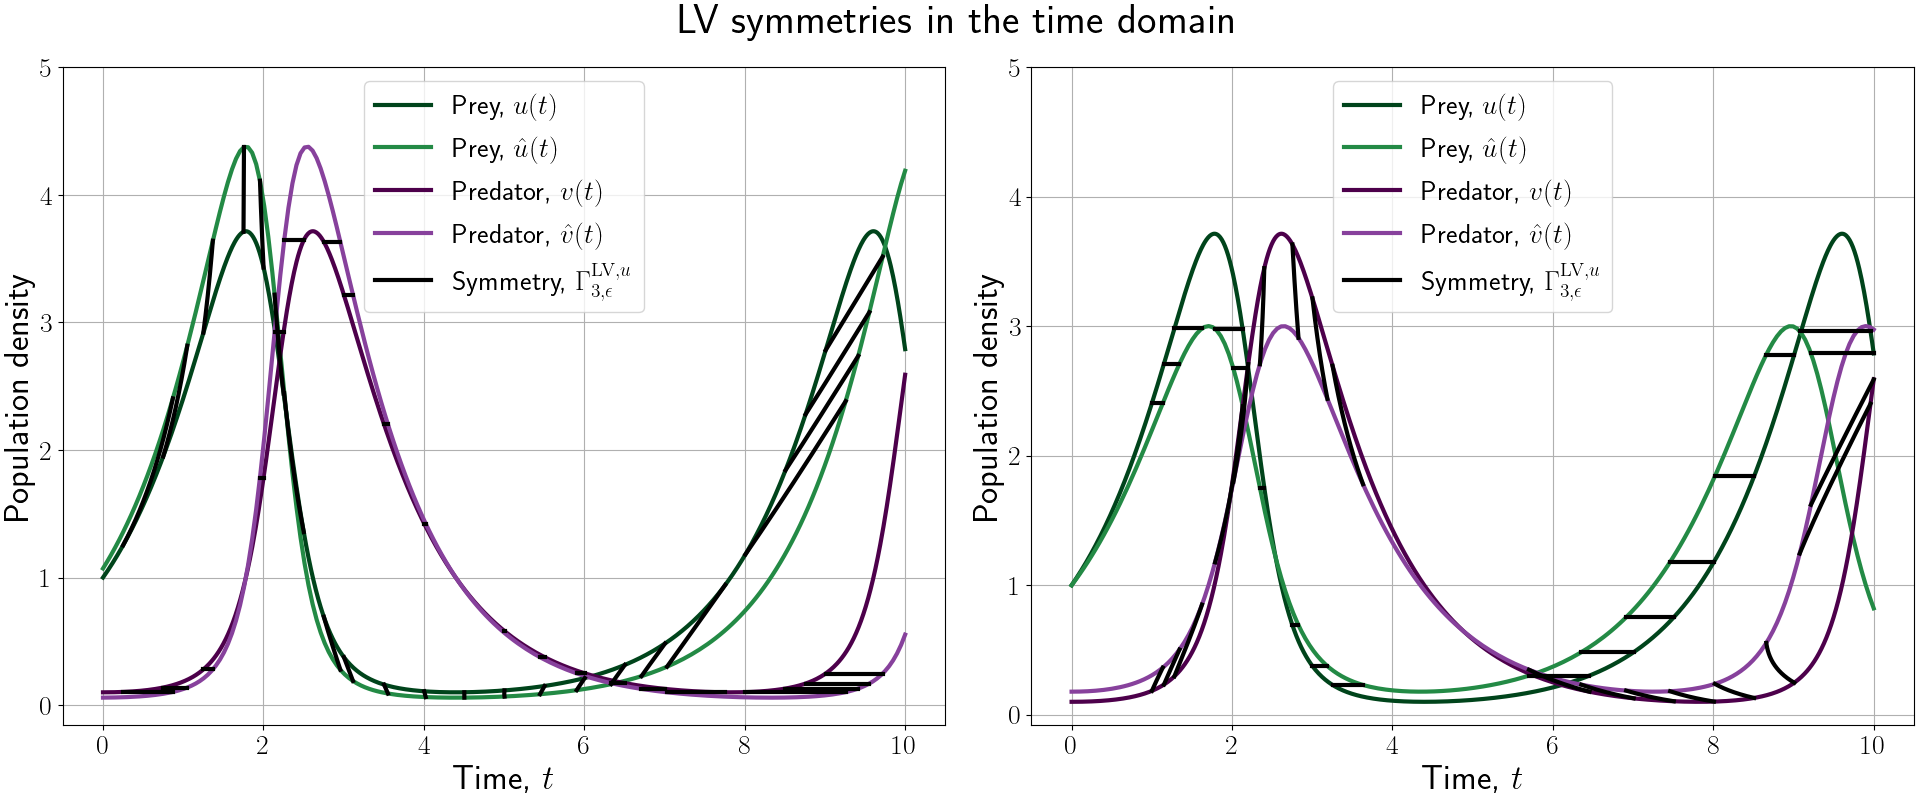
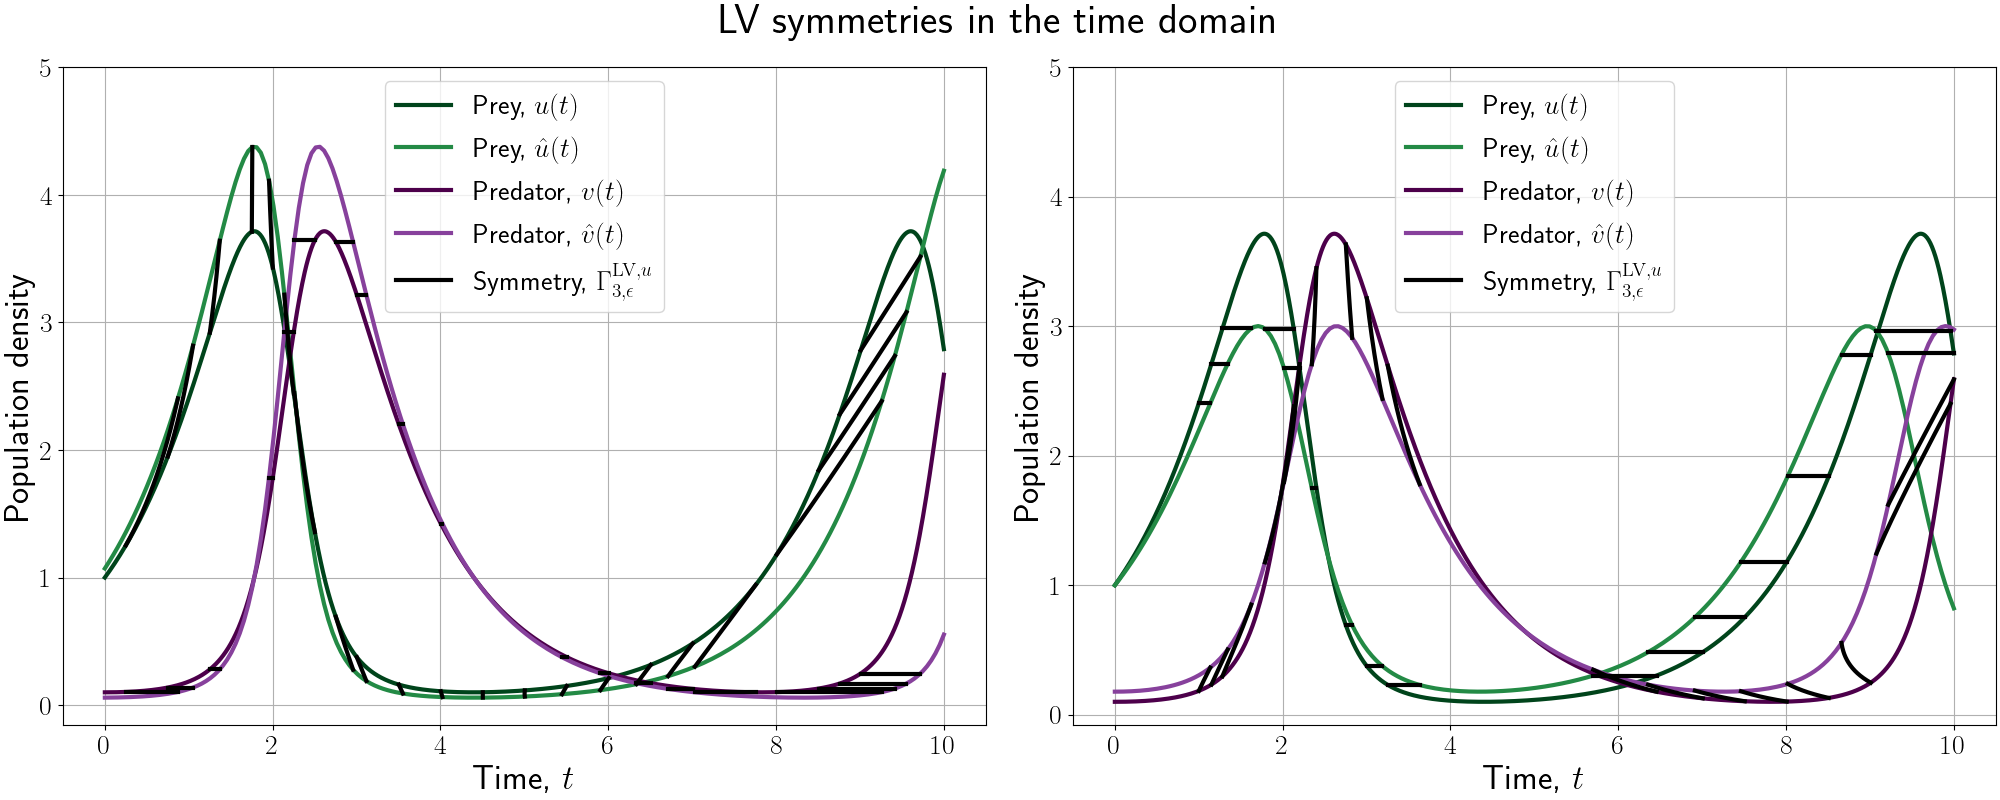
Update the LV model

diff --git a/Code/LV.py b/Code/LV.py
@@ -161,7 +161,6 @@ plot_LaTeX_2D(u_transformed, v_transformed, "../Figures/LaTeX_figures/LV_symmetr
 # =================================================================================
 # Re-define the original solution curve
 # Dimensionless LV parameter
-alpha = 1
 t = linspace(0, 10, 1000)              # time
 # initials conditions: 10 rabbits and 5 foxes
 X0 = array([1.00, 0.10])
@@ -172,8 +171,6 @@ u, v = X1.T
 # Testing to find ICs
 # Calculate internal energy
 H = v[0] + alpha*u[0] - log((u[0]**alpha)*v[0])
-# Epsilon value
-epsilon = 0.5
 # The transformation parameter
 epsilon_vec = linspace(0,epsilon,200)
 epsilon_vec_dense = linspace(0,epsilon,5000)
